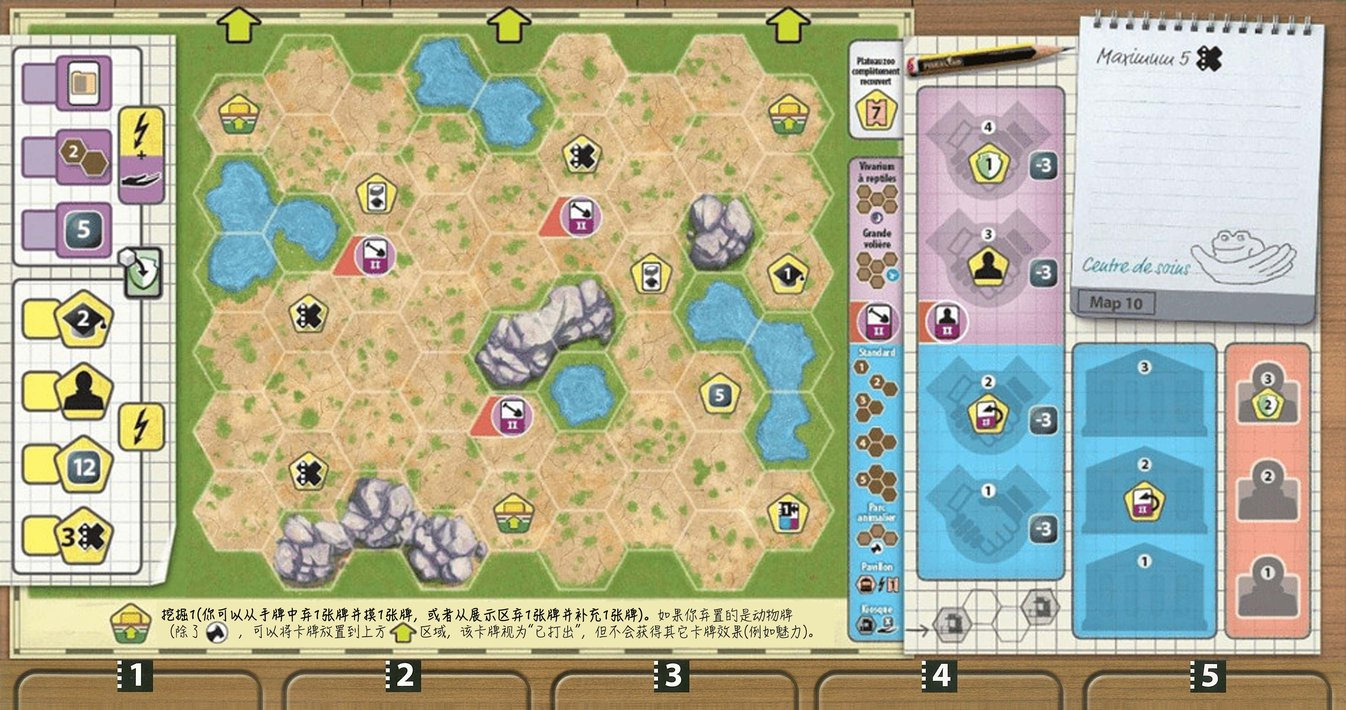
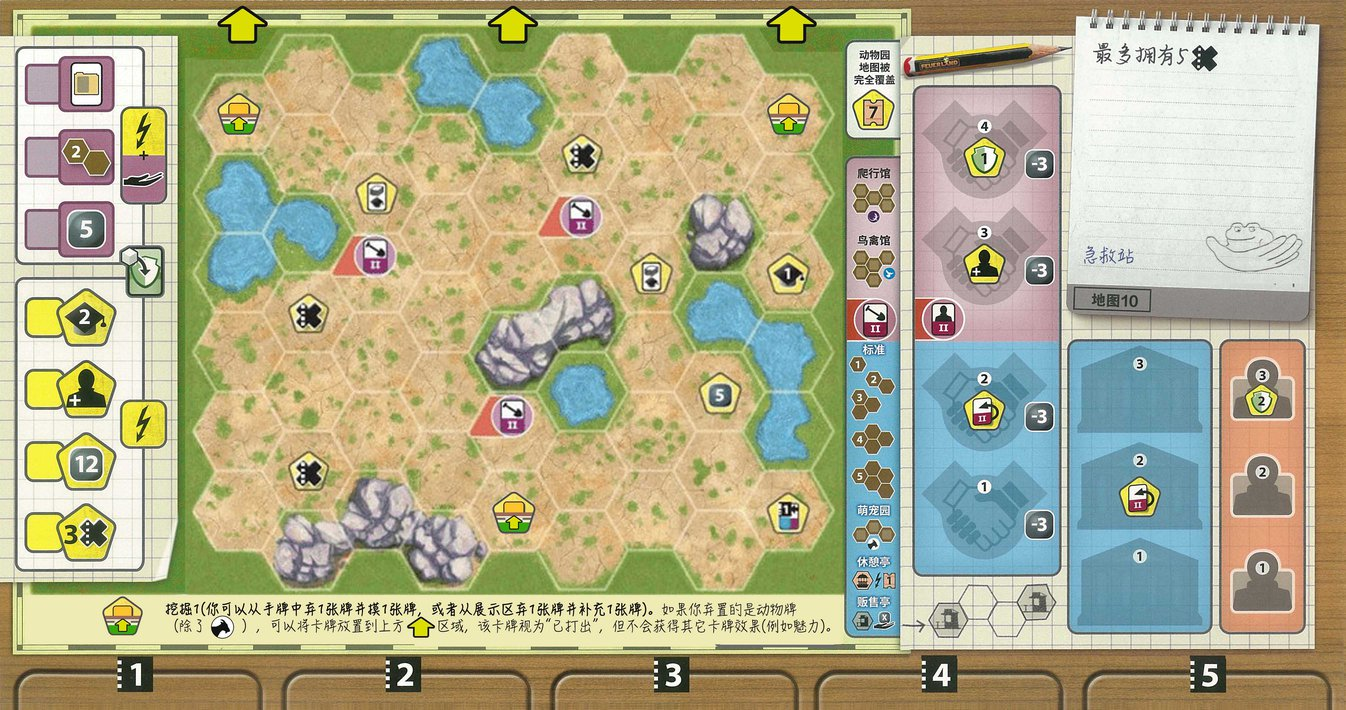
add pnp link

Changed region(s): [[0.0, 0.0, 1.0, 0.9296], [0.3432, 0.6817, 0.4056, 0.7746], [0.9985, 0.0, 1.0, 0.031]]

diff --git a/arknova-board.html b/arknova-board.html
@@ -40,7 +40,7 @@
     let mysrc =
             ["../images-ark/compress/plan1.jpg","../images-ark/compress/plan2.jpg","../images-ark/compress/plan3.jpg","../images-ark/compress/plan4.jpg","../images-ark/compress/plan5.jpg","../images-ark/compress/plan6.jpg","../images-ark/compress/plan7.jpg","../images-ark/compress/plan8.jpg","../images-ark/compress/plan9.jpg","../images-ark/compress/plan10.jpg","../images-ark/compress/plan0.jpg","../images-ark/compress/planA.jpg"];
     let mapTitle =
-          ["观测塔","户外营地","银湖","商业港口","主题餐厅","研究院","冰淇淋甜品店","好莱坞山","地理学园区","救助站","地图0","地图A"];
+          ["观测塔","户外营地","银湖","商业港口","主题餐厅","研究院","冰淇淋甜品店","好莱坞山","地理动物园","救助站","地图0","地图A"];
     let mapText =
           ["饲养区必须与观测塔的六角格相邻，而不仅仅是与另外3个岩石格相邻。这个观测平台对特殊饲养区无效。如果你将一个动物放归野外(而因此将一个已占用的饲养区翻回闲置的一面)，然后安置一个新动物到该饲养区，你将再次获得2魅力。",
               "饲养区必须与户外营地的六角格相邻，而不仅仅是与另外4个水域格相邻。户外营地对特殊饲养区无效。当安置动物时，你可以将任何与户外营地相邻的标准饲养区，视为扩大2格的饲养区。",
@@ -87,7 +87,7 @@
       <button id="plan6" class="button btn1 background-color-map  " onclick="setMap(5)" title="filter Animals cards">地图6 研究院</button>
       <button id="plan7" class="button btn1 background-color-map  " onclick="setMap(6)" title="filter Animals cards">地图7 冰淇淋甜品店</button>
       <button id="plan8" class="button btn1 background-color-map  " onclick="setMap(7)" title="filter Animals cards">地图8 好莱坞山</button>
-      <button id="plan9" class="button btn1 background-color-map  " onclick="setMap(8)" title="filter Animals cards">地图9 地理学园区</button>
+      <button id="plan9" class="button btn1 background-color-map  " onclick="setMap(8)" title="filter Animals cards">地图9 地理动物园</button>
       <button id="plan10" class="button btn1 background-color-map  " onclick="setMap(9)" title="filter Animals cards">地图10 救助站</button>
 
       <button id="plan0" class="button btn1 background-color-beginner-map  " onclick="setMap(10)" title="filter Animals cards">地图0 新手图</button>

diff --git a/arknova-cards-list.html b/arknova-cards-list.html
@@ -11,7 +11,7 @@
   <meta http-equiv="Pragma" content="no-cache">
   <meta http-equiv="Cache-control" content="no-cache">
   <meta http-equiv="Cache" content="no-cache">
-  
+
   <link rel="shortcut icon" type="image/png" href="images-ark/favicon.png">
   <link rel="stylesheet" type="text/css" href="css/mystyles-ark.css?v=1.0.0">
   <link rel="stylesheet" href="css/odometer.css">
@@ -25,7 +25,7 @@
   (function() {
     var hm = document.createElement("script");
     hm.src = "https://hm.baidu.com/hm.js?854bdf16e4e9c2242de5b5871f532196";
-    var s = document.getElementsByTagName("script")[0]; 
+    var s = document.getElementsByTagName("script")[0];
     s.parentNode.insertBefore(hm, s);
   })();
   </script>
@@ -46,9 +46,9 @@
         <div id="titleContainer">
           <div class="title-style">方舟动物园卡表</div>
         </div>
-        <a disabled id="btn-selectedCards" class="button btn-selected-cards disabled" title="open selected cards" href="no-selected-card.html" target="_blank">SELECTED
-          <div id="selectedCardsAmount">0</div>
-        </a>
+<!--        <a disabled id="btn-selectedCards" class="button btn-selected-cards disabled" title="open selected cards" href="no-selected-card.html" target="_blank">SELECTED-->
+<!--          <div id="selectedCardsAmount">0</div>-->
+<!--        </a>-->
     </div>
 
 

diff --git a/index.html b/index.html
@@ -12,7 +12,7 @@
   <meta http-equiv="Pragma" content="no-cache">
   <meta http-equiv="Cache-control" content="no-cache">
   <meta http-equiv="Cache" content="no-cache">
-  
+
   <link rel="shortcut icon" type="image/png" href="images-ark/favicon.png">
   <link rel="stylesheet" type="text/css" href="css/home.css?v=1.0.0">
   <title>Ark Nova</title>
@@ -44,8 +44,9 @@
       </div>
 
       <a class="planet1" href="/arknova-cards-list.html" target="_blank">游戏卡牌</a>
-      <a class="planet2" href="/arknova-board.html" target="_blank">游戏版图（测试中）</a>
-      <a class="planet4" href="/arknova-action.html" target="_blank">行动卡牌（测试中）</a>
+      <a class="planet2" href="/arknova-board.html" target="_blank">游戏版图</a>
+      <a class="planet4" href="/arknova-action.html" target="_blank">行动卡牌</a>
+      <a class="planet6" href="http://blog.ender.lol/archives/arknovapack1" target="_blank">新地图打印</a>
       <a class="planet3" href="https://www.bilibili.com/video/BV1iF411P7Un/" target="_blank">建议反馈</a>
 
     </div>

diff --git a/js/myscripts-ark.js b/js/myscripts-ark.js
@@ -114,7 +114,7 @@ function displayMaps() {
     w3AddClass(arr[i], "display");
     w3RemoveClass(arr[i], "show");
   }
-  
+
 }
 //////////////////////PARSE function ////////////////////////////////
 function parseURLParams(url) {
@@ -705,7 +705,7 @@ function selectCard (clickedCard) {
 
     //showing or removing the CTA button and updating its url
     if (selectedCards.length > 0) {
-      document.getElementById("btn-selectedCards").href = "http://arknova.ender.lol/ark-nova" + selectedCards;
+      document.getElementById("btn-selectedCards").href = "http://arknova.ender.lol/arknova-cards-list/" + selectedCards;
       document.getElementById("selectedCardsAmount").innerHTML = selectedCardsAmount;
       document.getElementById("btn-selectedCards").classList.remove("disabled");
       document.getElementById("btn-selectedCards").disabled = false;
